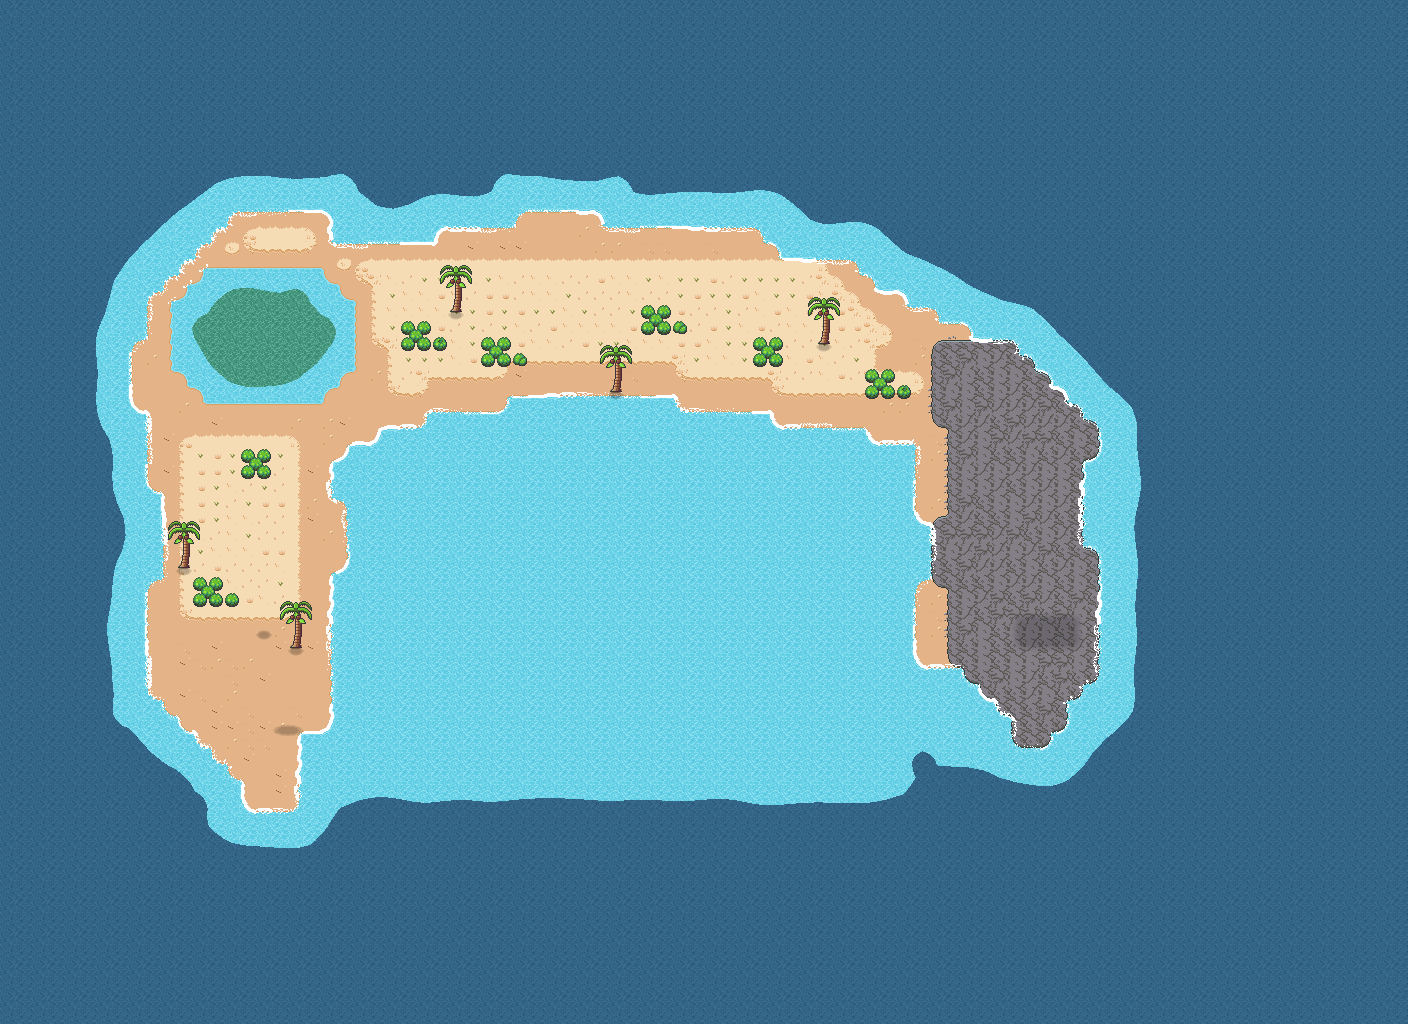
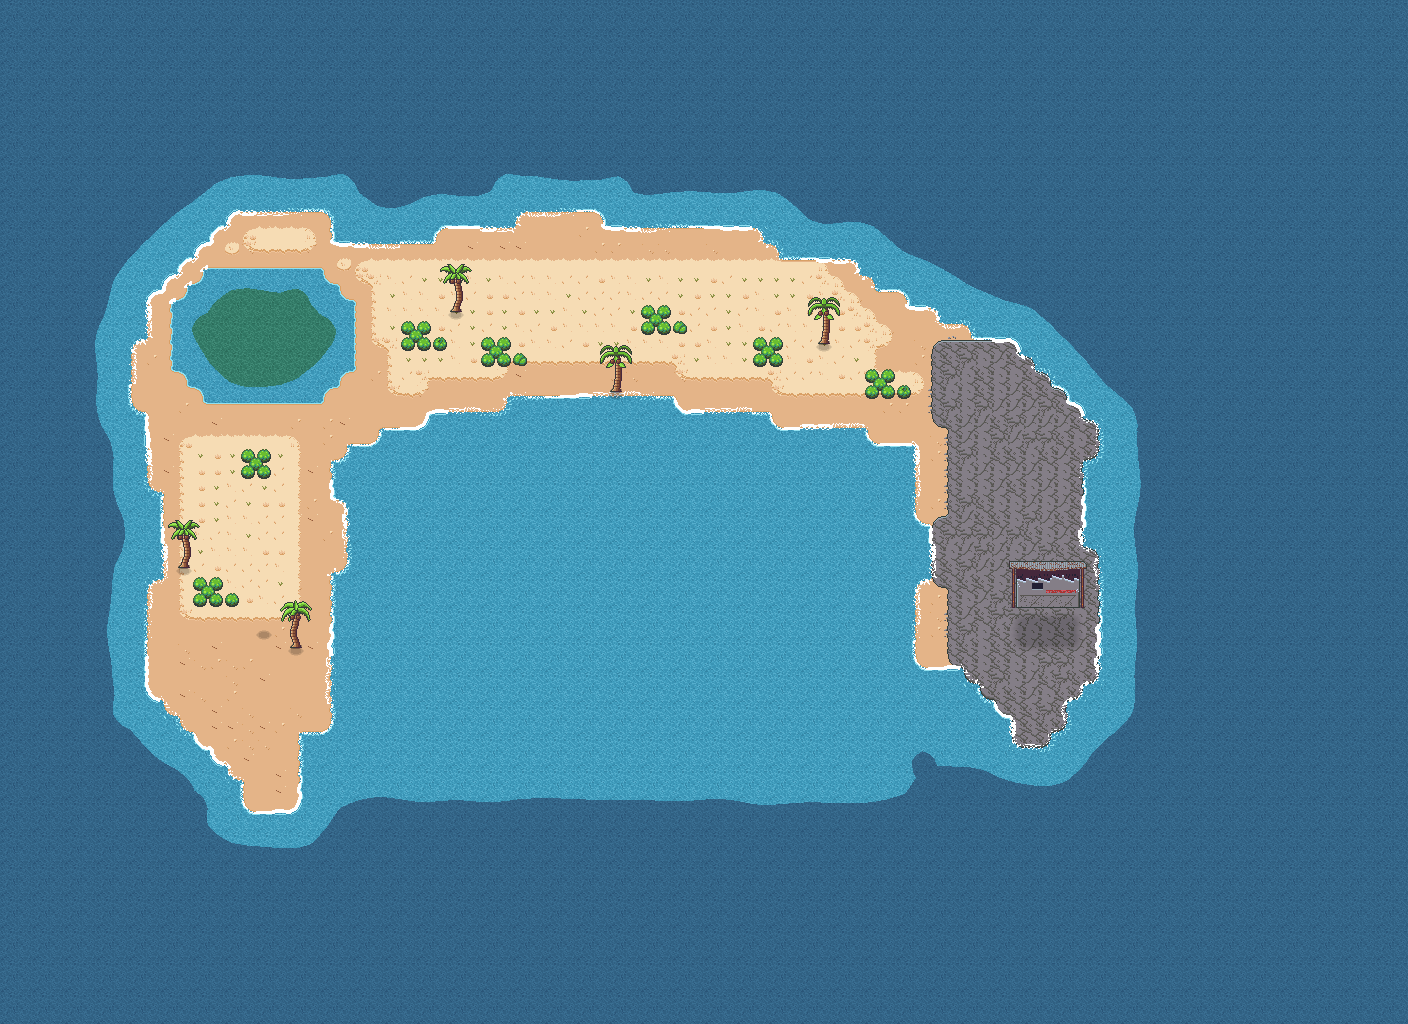
docs(art-terrain-polish): integration, every sheet rebuilds and the terrain is re-shot (group 10)
From main acddafe with every group merged, the recipe tools rebuilt 171
files into scratch, each equal to the tracked file, the 18 terrain,
sea, decal and shadow sheets among them. check.py, the Python art
tests (270), the import, smoke and GUT (3,053 of 3,053) are clean.

sandbar_day, coast_cay_day and sandbar_night are re-shot off-screen
with capture_terrain.tscn; the log has no shader error. The build
notes record each island's layer counts and the sand's pick shares on
the integrated build. TASKS.md marks the wave built.

Changed region(s): [[0.0625, 0.1562, 0.8125, 0.8438]]

diff --git a/TASKS.md b/TASKS.md
@@ -188,7 +188,7 @@ Voice acting, cloned voices, runtime TTS, challenges, seeded and daily runs, and
 
   Build only after `damage-feedback` merges, in five PRs (its design D13). The owner answered A1–E1 on 2026-11-15 (scope as written, chip and 22 px bar, green name-tag strip, Kenney credit dropped, rate arrows later); crossing-gameplay's HUD strip is restyled in stage 3 (design D14); the owner's reference pass (dimmed slots, last use in orange, label colour steps, slot tooltip) is folded in. Follow-ups, each its own change: the prompt over the local head (C29), the craft window sized to its rows (C31), the last-stand band (C32), per-vessel lash phrases (HU10), and rate arrows beside each meter, sized by how fast it moves, read from damage-feedback's per-meter watches, with the bars going from 40 to 34 px (owner E1; DST "Sanity" page). When crossing-gameplay's `CrossingHud` strip lands, restyle it in the kit (hud-window-kit design D14: a `HudPanel`, thin line rows, a deep-sea track with a sun-yellow vessel marker, integrity steps).
 - [ ] The rest of the 2026-11-14 art pass, waves 2, 3 and 5 (OpenSpec changes written 2026-11-15; the owner approved queueing them on 2026-11-15 and accepted every recommended answer, Q1–Q16 (a), on 2026-11-14). `art-coast-pass` (wave 1) merged on 2026-11-15 (#68); build each once this queue is merged and the coordinator says go, smallest group first; the review's before captures are tracked in `docs/art-pass/review-2026-11-14/before/`:
-  - [ ] `art-terrain-polish` (wave 2): the bush hole first (TR14), palms counted as dune (C9), the dune's inland corners rounded as wave 1 rounded the sand's (the owner's "Next PR", 2026-11-15), darker shallows and the wet edge (C7), scrub variety with fitted shore variants (C10), beach stripes and weighted picks (C11), the rock lip, face and seam (C12), still foam on the lagoon (C13), the raft drawn on the sand with a shadow by stage (C14; built after crossing-gameplay: the hull and its site lean 24 px toward land, with a WIDE drop shadow from the half-built stage on, and the site's shade decal is gone)
+  - [ ] `art-terrain-polish` (wave 2): the bush hole first (TR14), palms counted as dune (C9), the dune's inland corners rounded as wave 1 rounded the sand's (the owner's "Next PR", 2026-11-15), darker shallows and the wet edge (C7), scrub variety with fitted shore variants (C10), beach stripes and weighted picks (C11), the rock lip, face and seam (C12), still foam on the lagoon (C13), the raft drawn on the sand with a shadow by stage (C14; built after crossing-gameplay: the hull and its site lean 24 px toward land, with a WIDE drop shadow from the half-built stage on, and the site's shade decal is gone). Built 2026-11-24, every group merged (C14 last, #116); the integration rebuild matches every sheet byte for byte and the terrain shots are re-shot. The archive waits for art-coast-pass's archive and the owner's look at the captures
   - [ ] `art-sprite-polish` (wave 3): the swim bob and ripple ring (C19, C20), scrub drawn over a crouched body (C8, after C10), the fin never drawn over the deck (SP1, drawing only), a swimmer north of the deck drawn behind it (C22; built with group 7: the look goes to z -21 while it swims just north of a drawn deck or board), the shark redraw with facings (C24; built with group 6: side, up and down rows, a broken foam dash, every frame within 12 px of its centre so the circling fin never draws over the deck or a board), the crab, gull flight frames and a lying pose (C25 in part). The raft-side parts wait for `crossing-gameplay`
   - [ ] `art-mood-pass` (wave 5): a warm stepped fire light as far as the company bonus reaches and a slightly brighter night (C33), squall rain, a faster sea and foam and a "Turbonada" label (C34), crests, a wake and the look of crossing-gameplay's flotsam (C35). The crossing parts wait for `crossing-gameplay`. C33 and C34 are built (groups 1–4: night and dusk, firelight, the squall's art, rain, pace and label); C35 (group 5) is left.
   - [ ] `coast-cay-reshape` (C6, content): the coast cay re-authored without ruler-straight coasts, with a narrowing rock point and driftwood and scrub in groups; every count, place and walk band kept. The sandbar's four notch cells filled (owner: "Yes, fill them", 2026-11-15). Built 2026-11-22: 1,018 land cells, every coast and rock seam run at most 10, scrub in 7 clumps, the patrol still spots 32% of the cay (34% ± 3) and lights its raft site, never the bench.

diff --git a/openspec/changes/art-terrain-polish/design.md b/openspec/changes/art-terrain-polish/design.md
@@ -381,3 +381,33 @@ Measured values and departures are recorded here as the tasks ship.
 - **Images:**
   - `docs/art-pass/terrain-polish/c14_raft_stages_before_after_x4.png`: `before/raft_stages.png` above. Below, the same four stages now, from the solo run (marked, materials, half built, built), each a 128×72 world rect centred on the hull. The solo player stands in the shallows at the hull's east end, where the prompt check put them.
   - `docs/art-pass/terrain-polish/c14_cay_landing_before_after_x2.png`: `before/cay_day_landing.png` above and the raft landed on the coast cay now below, from the solo view without the HUD.
+
+**Group 10, integration (2026-11-24).** From main acddafe, with every group merged.
+- **The rebuild (10.1).** Every recipe tool was run into scratch from the read-only packs and the tracked hand sources: `terrain.py`, `structures.py`, `creatures.py`, `items.py`, `compose.py`, `fx.py`, `mood.py` and `ui.py`.
+  - 171 files were built, and each `cmp`s equal to the tracked file, the 18 terrain, sea, decal and shadow sheets among them.
+  - The shadows with no recipe (12×7, 8×4, 6×3) are art-pass's. C14's 30×11 is built by `fx.py`.
+- **Checks (10.1).**
+  - `check.py`: 0 problems on the art and on the fixes.
+  - The Python art tests: 270 OK.
+  - Import twice: the second is clean. Smoke: 10 frames, 0 problems.
+  - GUT: 3,053 of 3,053 pass (332 scripts, 653 s locally).
+- **The re-shoots (10.2).** `capture_terrain.tscn` ran once off-screen (`--position -32000,-32000 --resolution 640x360`), per the owner's 2026-11-23 rule, not windowed.
+  - `docs/art-pass/sandbar_day.png`, `coast_cay_day.png` and `sandbar_night.png` are replaced, each the same size as before (1280×1152, 1408×1024, 1280×1152).
+  - The log has no shader or script error, only the engine's usual leak report at exit.
+- **Measured on the integrated build (10.3),** each island built for one offline player and read from its tile layers:
+
+  | Island | Sand | Today's full sand tile | Dune | Rock (plain) | Shore | Brush | Decals |
+  |---|---|---|---|---|---|---|---|
+  | Sandbar | 998 | 497 of 734 full tiles (67.7%) | 425 | 0 | 264 | 84 | 21 |
+  | Coast cay | 1,018 | 508 of 729 (69.7%) | 366 | 229 | 289 | 33 | 31 |
+  | Hidden cay | 224 | 112 of 152 (73.7%) | 107 | 0 | 72 | 106 | 11 |
+
+  - The sand's pick shares sit near C11's 70/10/10/10 weights: the other three picks share the rest about evenly (79, 79 and 79 on the sandbar).
+  - The sandbar's dune count is C9's 425.
+  - The offsets and colours are as each group recorded above:
+    - C14's 24 px lean;
+    - C13's #8fe0f0 still foam;
+    - C12's #323c39 rim and #9badb7 lip;
+    - C7's 1.6:1 sand over the shallows and 1.4:1 shallows over brackish;
+    - D9's corners on their arcs.
+- **TASKS.md** records the wave as built. The archive waits for art-coast-pass's archive and for the owner to see the captures.

diff --git a/openspec/changes/art-terrain-polish/tasks.md b/openspec/changes/art-terrain-polish/tasks.md
@@ -124,9 +124,9 @@
 
 ## 10. Integration
 
-- [ ] 10.1 Rebuild every terrain, sea, decal and shadow sheet to scratch, and `cmp` each against the tracked file, so the build is reproducible byte for byte. Then run `check.py`, `python -m unittest` in `tools/art`, the import twice, smoke and GUT. All must be clean.
-- [ ] 10.2 Re-shoot `docs/art-pass/sandbar_day.png`, `coast_cay_day.png` and `sandbar_night.png` with `tests/manual/capture_terrain.tscn`, and read the run logs for shader errors.
-- [ ] 10.3 Update `TASKS.md`. Record the measured offsets, colours, pick shares and counts in this design's build notes. Run `openspec validate art-terrain-polish --strict`.
+- [x] 10.1 Rebuild every terrain, sea, decal and shadow sheet to scratch, and `cmp` each against the tracked file, so the build is reproducible byte for byte. Then run `check.py`, `python -m unittest` in `tools/art`, the import twice, smoke and GUT. All must be clean.
+- [x] 10.2 Re-shoot `docs/art-pass/sandbar_day.png`, `coast_cay_day.png` and `sandbar_night.png` with `tests/manual/capture_terrain.tscn`, and read the run logs for shader errors.
+- [x] 10.3 Update `TASKS.md`. Record the measured offsets, colours, pick shares and counts in this design's build notes. Run `openspec validate art-terrain-polish --strict`.
 
 ## Workflow follow-up
 
